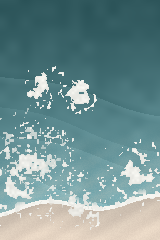
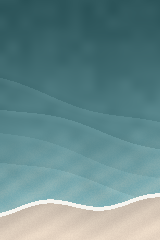
9054 v10: foam removed entirely, clean layered wave fronts

diff --git a/9054/index.html b/9054/index.html
@@ -46,7 +46,7 @@ const TEAL_LT = [123, 175, 182]; // #7bafb6
 const TEAL_MD = [82, 136, 143];  // #52888f
 const TEAL_DK = [46, 86, 91];    // #2e565b
 
-let rnd, foamEvents, sandTex, fronts;
+let rnd, sandTex, fronts;
 
 // layered wave fronts: diagonal lines at different depths, drifting shoreward.
 // foam clusters along these lines, nearer fronts overlapping farther ones.
@@ -85,35 +85,10 @@ function initSand() {
   }
 }
 
-// a foam event: erupts at (x,y), billows outward, drifts shoreward, dissipates
-function newFoam(x, y, size) {
-  return {
-    x: x, y: y,
-    size: size,               // max radius
-    age: 0,
-    life: 7 + rnd() * 4,      // seconds
-    seedOff: rnd() * 100,
-    driftX: (rnd() - 0.5) * 6,
-    driftY: 8 + rnd() * 5,    // shoreward drift
-    born: 0
-  };
-}
-
 function init() {
   rnd = mulberry32(seed);
   initSand();
   initFronts();
-  foamEvents = [];
-  // pre-populate so the scene starts alive: several events at various ages
-  const presets = [
-    [45, 85, 52, 2.5], [105, 105, 62, 4.0], [75, 135, 46, 1.0],
-    [30, 155, 54, 5.5], [120, 160, 44, 3.0], [60, 70, 40, 6.0]
-  ];
-  for (const [x, y, s, age] of presets) {
-    const f = newFoam(x, y, s);
-    f.age = age;
-    foamEvents.push(f);
-  }
 }
 
 function hash(x, y, s) {
@@ -143,20 +118,6 @@ function frame(ts) {
   for (const f of fronts) {
     f.y += f.speed * dt;
     if (f.y > 185) f.y = 55 + rnd() * 12;
-  }
-  // update foam events
-  for (const f of foamEvents) {
-    f.age += dt;
-    f.x += f.driftX * dt;
-    f.y += f.driftY * dt;
-  }
-  foamEvents = foamEvents.filter(f => f.age < f.life);
-  // spawn new foam ALONG wave fronts (not randomly): pick a front, pick a spot on it
-  if (rnd() < dt * 1.1 && foamEvents.length < 10) {
-    const fr = fronts[(rnd() * fronts.length) | 0];
-    const x = 10 + rnd() * (GW - 20);
-    const y = frontY(fr, x, t) + (rnd() - 0.5) * 10;
-    if (y > 55 && y < 175) foamEvents.push(newFoam(x, y, 34 + rnd() * 28));
   }
 
   for (let y = 0; y < GH; y++) {
@@ -203,87 +164,6 @@ function frame(ts) {
         b = SAND[2] - wet * 24 + (st - 0.5) * 13;
       }
       d[idx] = r; d[idx+1] = g; d[idx+2] = b; d[idx+3] = 255;
-    }
-  }
-
-  // draw foam events: billowing patches with bubbly core, feathery edge
-  for (const f of foamEvents) {
-    const ageK = f.age / f.life;                    // 0 -> 1
-    // growth: rapid bloom then slow expand; dissipation: holes grow
-    const growK = Math.min(1, f.age / 1.8);
-    const R = f.size * (0.35 + 0.65 * growK);
-    const density = (1 - ageK * 0.85);               // foam thins with age
-    const x0 = Math.max(0, Math.floor(f.x - R - 8));
-    const x1 = Math.min(GW - 1, Math.ceil(f.x + R + 8));
-    const y0 = Math.max(0, Math.floor(f.y - R - 8));
-    const y1 = Math.min(GH - 1, Math.ceil(f.y + R + 8));
-    for (let py = y0; py <= y1; py++) {
-      for (let px = x0; px <= x1; px++) {
-        const dx = px - f.x, dy = py - f.y;
-        // organic shape: radius modulated by noise (billows and wisps)
-        const ang = Math.atan2(dy, dx);
-        const wob = vnoise(Math.cos(ang) * 1.5 + 5, Math.sin(ang) * 1.5 + f.seedOff, 3);
-        const wob2 = vnoise(px * 0.05, py * 0.05 + f.age * 0.6, f.seedOff + 9);
-        const edge = R * (0.55 + 0.7 * wob) * (0.8 + 0.4 * wob2);
-        const dist = Math.sqrt(dx * dx + dy * dy);
-        if (dist > edge) continue;
-        const inner = 1 - dist / edge;               // 1 center -> 0 edge
-        // chunky bubbles: coarse noise for big cells, fine for wisps
-        const bubBig = vnoise(px * 0.14, py * 0.14, f.seedOff);
-        const bubFine = vnoise(px * 0.4, py * 0.4, f.seedOff + 2);
-        const cell = vnoise(px * 0.06 + f.age * 0.7, py * 0.06, f.seedOff + 4);
-        // foam is texture, not solid: holes everywhere, denser toward middle
-        // but never opaque white blobs
-        let thresh, bub;
-        if (inner > 0.55) {
-          // core: textured white, water showing through in the holes
-          bub = bubBig * 0.6 + bubFine * 0.4;
-          thresh = density * (0.55 + 0.2 * cell);
-        } else if (inner > 0.25) {
-          // mid: big bubble cells with real holes
-          bub = bubBig * 0.7 + bubFine * 0.3;
-          thresh = density * (0.3 + 0.35 * inner) * (0.5 + 0.5 * cell);
-        } else {
-          // rim: wispy feathers
-          bub = bubFine;
-          thresh = density * inner * 2.2 * (0.4 + 0.6 * cell);
-        }
-        if (bub < thresh) {
-          const i = (py * GW + px) * 4;
-          // foam slightly shadowed in creases (bub high = crease)
-          const shade = 228 + (1 - bub / Math.max(0.001, thresh)) * 27;
-          const wh = Math.min(255, shade);
-          // keep the deep water clean: fade foam out toward the top
-          const topMask = py < 55 ? Math.max(0, (py - 25) / 30) : 1;
-          const op = Math.min(1, density * 1.1 + 0.15) * topMask;
-          d[i] = d[i] * (1 - op) + wh * op;
-          d[i+1] = d[i+1] * (1 - op) + wh * op;
-          d[i+2] = d[i+2] * (1 - op) + (wh - 5) * op;
-        }
-      }
-    }
-  }
-
-  // shoreline wash: lacy band where waves meet sand, breathing with time
-  const washT = (Math.sin(t * 0.55) * 0.5 + 0.5); // slow breathing
-  for (let x = 0; x < GW; x++) {
-    const sy = shoreAt(x, t) | 0;
-    const reach = 6 + washT * 16;
-    for (let dy = -10; dy < reach; dy++) {
-      const py = sy + dy;
-      if (py < 0 || py >= GH) continue;
-      const n = vnoise(x * 0.18, py * 0.18 + t * 0.5, 21);
-      const n2 = vnoise(x * 0.05, py * 0.05, 22);
-      const band = dy < 0 ? 1 - Math.abs(dy) / 10 : 1 - dy / Math.max(1, reach);
-      const thresh = Math.max(0, band) * (0.35 + 0.5 * n2) * (0.6 + 0.4 * washT);
-      if (n < thresh) {
-        const i = (py * GW + x) * 4;
-        const wh = 232 + n * 23;
-        const op = Math.min(1, band * 1.3);
-        d[i] = d[i] * (1 - op) + wh * op;
-        d[i+1] = d[i+1] * (1 - op) + wh * op;
-        d[i+2] = d[i+2] * (1 - op) + (wh - 5) * op;
-      }
     }
   }
 
